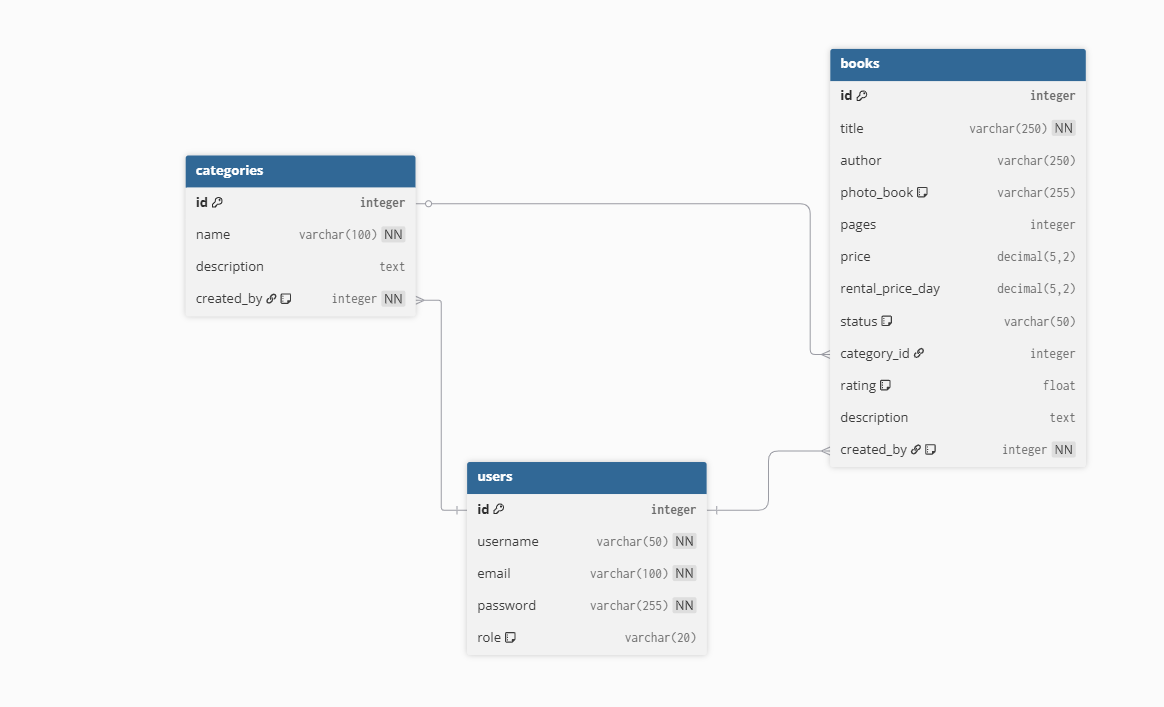
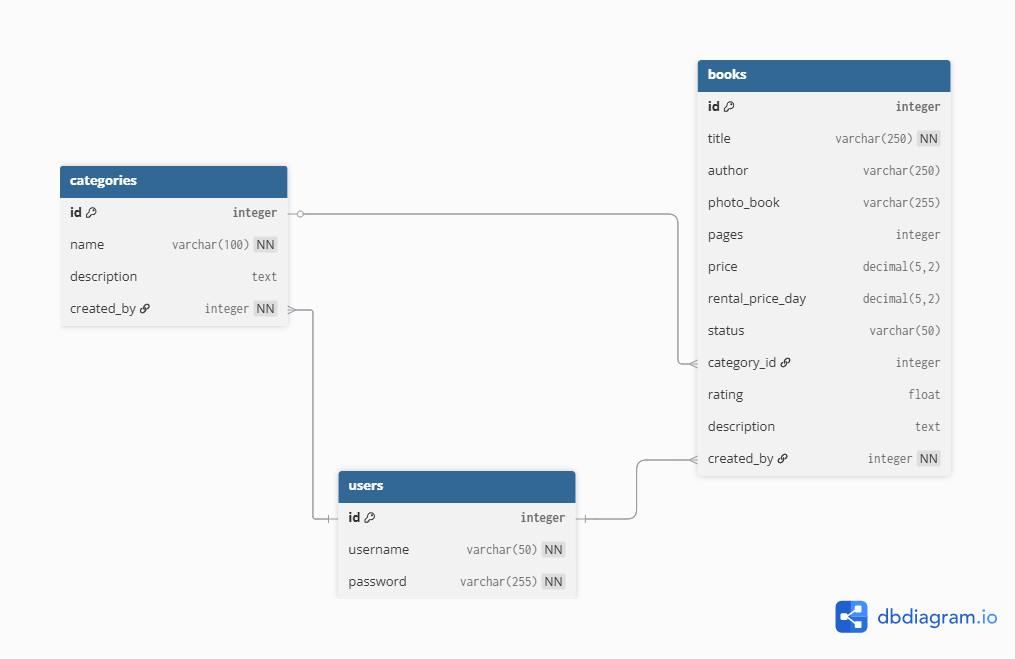
readme

diff --git a/README.md b/README.md
@@ -1,10 +1,12 @@
-## 📚 **Project Title: Library Management System (LMS)**
+## 📚 **Project Title: NestBook **
 
 ### 🧠 **Overview**
 
-The **Library Management System (LMS)** is a Django-based web application designed to manage books within a digital library.
-It allows the **Admin** user to add books with detailed information such as title, author, price, number of pages, status, category, rating, and description — as well as upload book cover images.
-The system focuses on CRUD (Create, Read, Update, Delete) operations through Django’s admin panel and a simple, responsive HTML/CSS interface.
+The **NestBook** :books: Project Title: NestBook – Library Management System App
+:brain: Overview
+NestBook is a web application that allows users to create and manage their personal book collections.
+ Each user can log in, add books with titles, authors, descriptions, and prices, and upload cover images to visualize their library.
+ The app focuses on CRUD functionality, authentication, and a clean, responsive HTML/CSS interface.
 
 ---
 
@@ -34,31 +36,6 @@ The system focuses on CRUD (Create, Read, Update, Delete) operations through Dja
 
 ### 🧱 Data Model (ERD) - Vertical Layout
 
-```
-├── User (Admin)
-│  ├── username (CharField)
-│  └──  password (CharField)
-│
-│
-├── Category
-│ ├── name (CharField)
-│ └── created_by (ForeignKey → User)
-│
-│
-└── Book
-  ├── title (CharField)
-  ├── author (CharField)
-  ├── photo_book (ImageField)
-  ├── pages (IntegerField)
-  ├── price (DecimalField)
-  ├── rental_price_day (DecimalField)
-  ├── status (ChoiceField – Available / Rental / Sold)
-  ├── category (ForeignKey → Category)
-  ├── rating (FloatField)
-  ├── description (TextField)
-  └── created_by (ForeignKey → User)
-```
-
 ![ERD](pic/ERD.png)
 
 
@@ -66,21 +43,28 @@ The system focuses on CRUD (Create, Read, Update, Delete) operations through Dja
 
 * Each **Category** can have many **Books**.
 * Each **Book** belongs to one **Category**.
-* Only one **Admin User** can create many Books.
-* Only one **Admin User** can create many Categories.
-* Only one **Admin User** manages all entities.
+* Only one **User** can create many Books.
+* Only one **User** can create many Categories.
+* Only one **User** manages all entities.
 
 
 ---
 
 ### 🧭 **User Stories**
 
-* As an **Admin**, I can log in to the admin dashboard.
-* As an **Admin**, I can add new books with full details.
-* As an **Admin**, I can add new category.
-* As an **Admin**, I can view all books stored in the system.
-* As an **Admin**, I can edit or delete any book or category.
-* As a **Visitor**, I can browse all books displayed on the public homepage.
+- As a **user**, I can register and log in to my account.  
+- As a **user**, I can add new categories to organize my books.  
+- As a **user**, I can add new books with details such as **title**, **author**, **description**, **price**, **image**, **pages**, **rental price**, and **status**.  
+- As a **user**, I can assign a book to a specific category.  
+- As a **user**, I can view all books  
+- As a **user**, I can edit or delete my own books.  
+- As a **user**, I can edit or delete categories that I created.  
+- As a **user**, I can add, edit, and delete comments on books.  
+
+- As a **visitor**, I can view all books displayed on the public homepage.  
+- As a **visitor**, I can add, edit, and delete my own comments on books.  
+- As a **visitor**, I cannot add, edit, or delete books or categories.  
+
 
 ---
 
@@ -90,8 +74,8 @@ The system focuses on CRUD (Create, Read, Update, Delete) operations through Dja
 | ------------------------------- | -------------------------------------------------------------------------------------------------- |
 | **Home (All Books)**            | Displays all books with cover image, title, and author.                                            |
 | **Book Detail**                 | Shows complete information about a selected book (title, author, price, description, image, etc.). |
-| **Add / Edit Book (Admin)**     | Forms to add or update book information.                                                           |
-| **Category Management (Admin)** | Admin page to manage and create categories.                                                        |
+| **Add / Edit Book**     | Forms to add or update book information.                                                           |
+| **Category Management** | Admin page to manage and create categories.                                                        |
 | **Login / Logout**              | Authentication pages for admin login and logout.                                                   |
 
 ---
@@ -101,9 +85,9 @@ The system focuses on CRUD (Create, Read, Update, Delete) operations through Dja
 | View           | Description                               |
 | -------------- | ----------------------------------------- |
 | **ListView**   | Displays all books on the homepage (`/`). |
-| **CreateView** | Allows adding a new book.                 |
-| **UpdateView** | Allows editing book details.              |
-| **DeleteView** | Allows deleting a book.                   |
+| **CreateView** | Allows adding a new book and category.    |
+| **UpdateView** | Allows editing book details and category. |
+| **DeleteView** | Allows deleting a book and category.      |
 | **DetailView** | Displays details of a single book.        |
 
 ---
@@ -116,28 +100,6 @@ The system focuses on CRUD (Create, Read, Update, Delete) operations through Dja
 | **Day 2 – Admin Panel + CRUD**     | Implement CRUD for Book and Category, secure access to admin only.                     |       |
 | **Day 3 – Templates & Display**    | Create templates for homepage and book details, connect to views.                      |       |
 | **Day 4 – CSS + README + Testing** | Add responsive CSS, finalize README, and test the project.                             |       |
-
----
-
-### 🧮 **Example Query Logic**
-
-Display all books:
-
-```python
-books = Book.objects.all().order_by('title')
-```
-
-Filter books by category:
-
-```python
-books = Book.objects.filter(category__name='Science')
-```
-
-Display only available books:
-
-```python
-books = Book.objects.filter(status='available')
-```
 
 ---
 
@@ -157,8 +119,6 @@ books = Book.objects.filter(status='available')
 | Challenge                           | Solution                                                             |
 | ----------------------------------- | -------------------------------------------------------------------- |
 | Handling image uploads              | Configured `MEDIA_URL` and `MEDIA_ROOT` in settings.py.              |
-| Defining book-category relationship | Used `ForeignKey` with `on_delete=models.PROTECT`.                   |
-| Customizing admin interface         | Changed admin site title to *Library Management System Admin Panel*. |
 | Displaying book images in admin     | Used `list_display` and media configuration to show images properly. |
 
 ---
